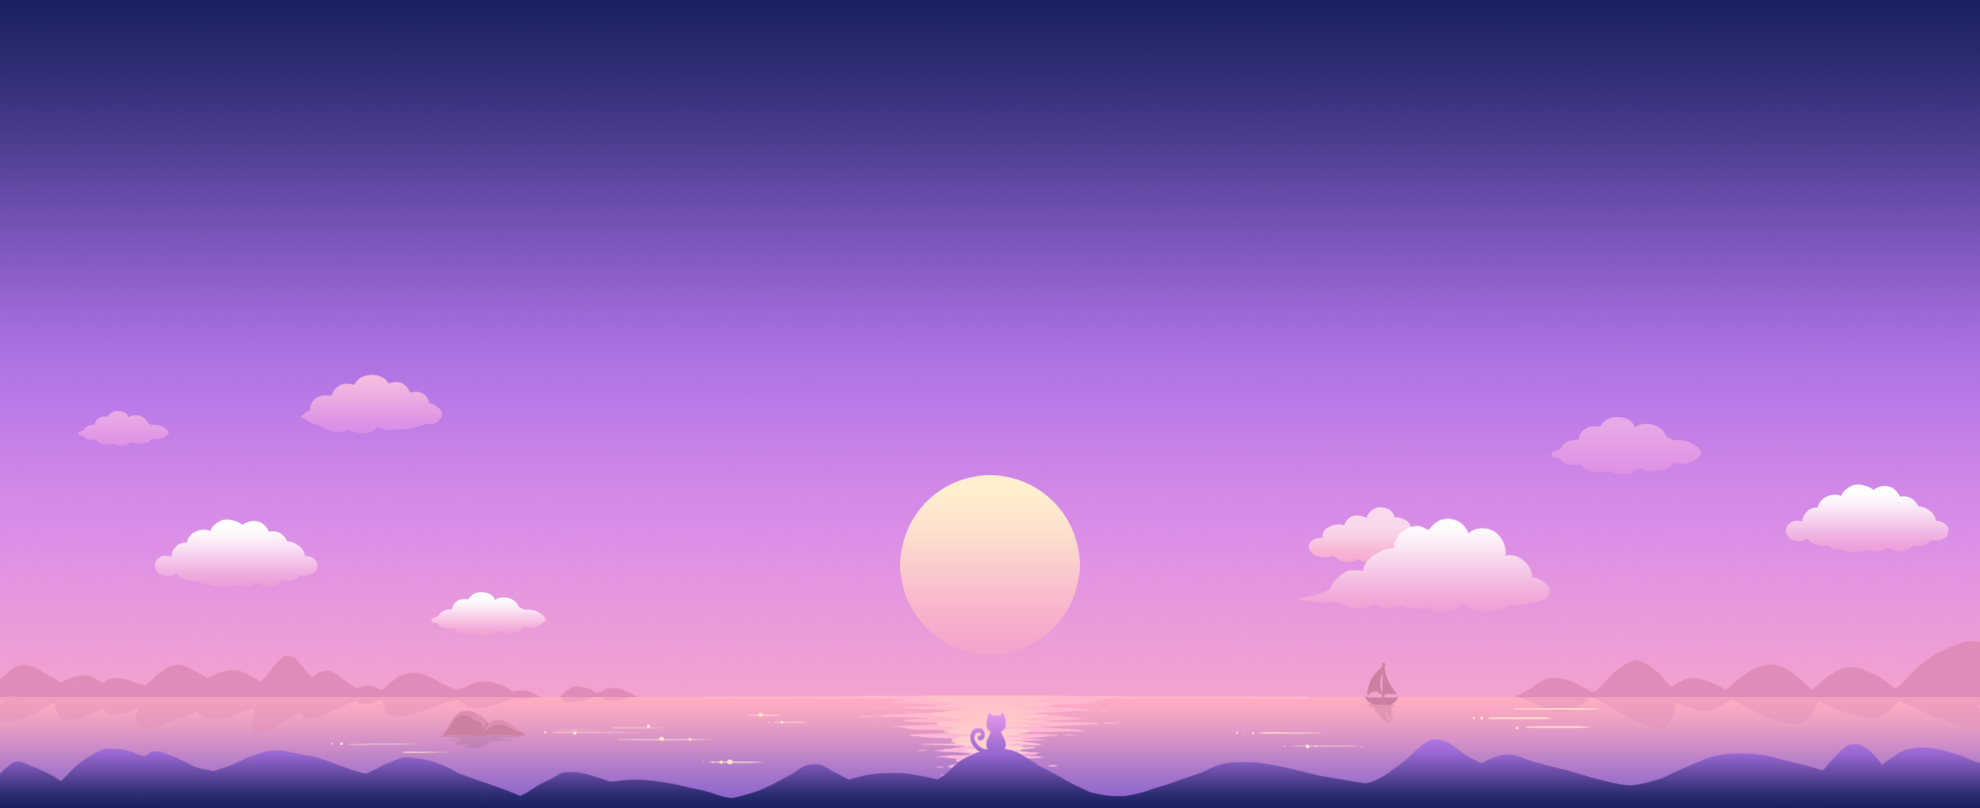
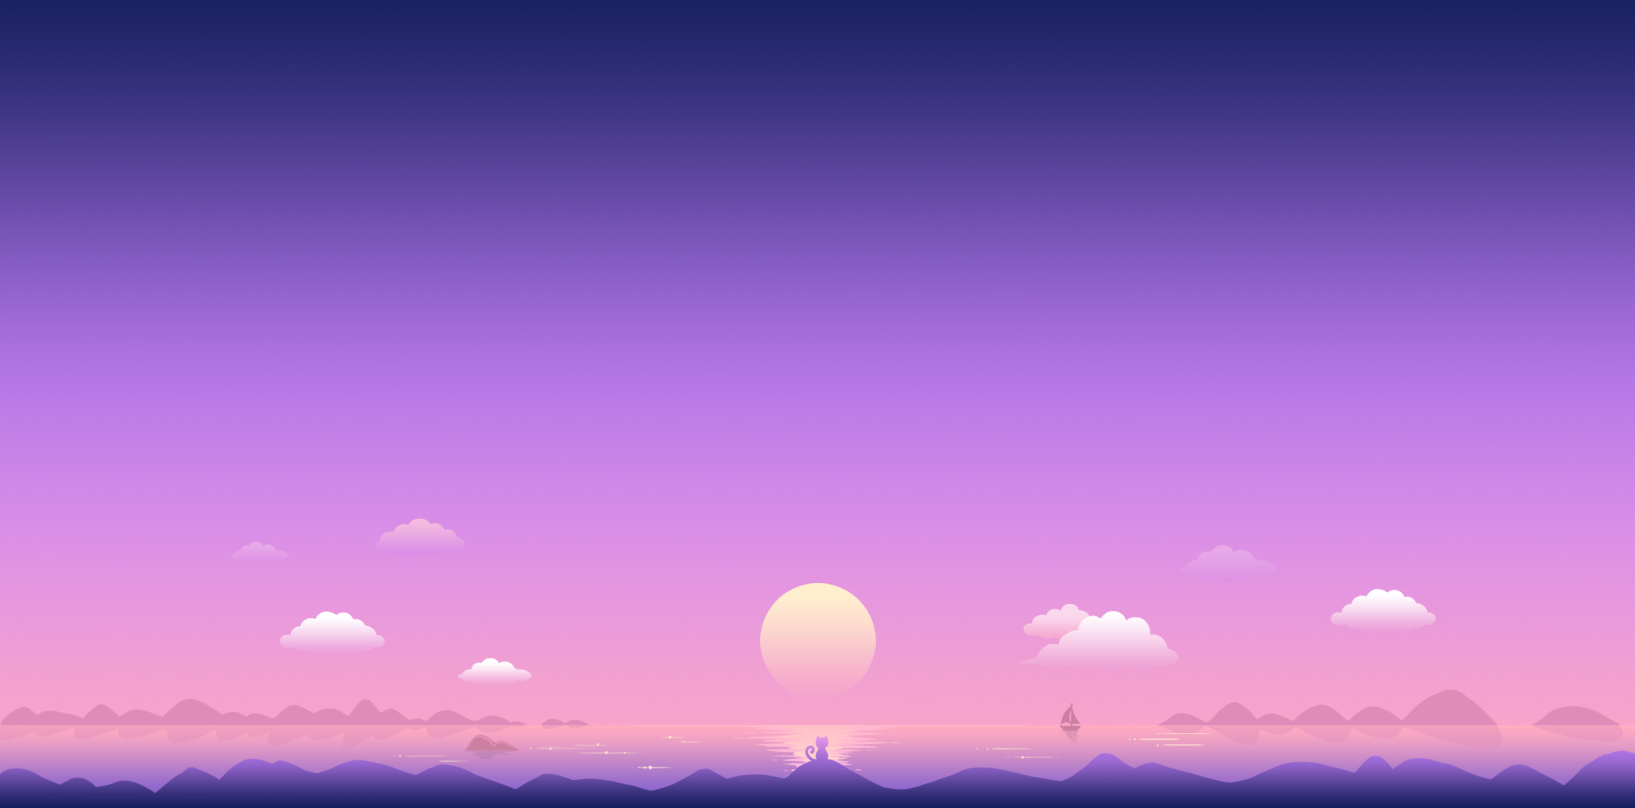
resized doorway and replaced background

diff --git a/assets/css/style.css b/assets/css/style.css
@@ -22,10 +22,10 @@ html {
 	text-align: center;
 }
 nav {
-	max-width: 960px;
+	max-width: 550px;
 	mask-image: linear-gradient(90deg, rgba(255, 255, 255, 0) 0%, #ffffff 25%, #ffffff 75%, rgba(255, 255, 255, 0) 100%);
 	margin: 0 auto;
-	padding: 20px 0; /*adjust how close bar is to logo*/
+	padding: 5px 0; /*adjust how close bar is to logo*/
 }
 
 nav ul {
@@ -60,8 +60,8 @@ nav ul li a:hover {
 	position: relative;
 	top: 0;
 	left: 0;
-	width: 100%;
-	height: 100%;
+	width: 90%;
+	height: 90%;
 }
 .cloud {
 	width: 40%;
@@ -83,8 +83,8 @@ nav ul li a:hover {
 	color: rgba(0, 35, 122, 0.5);
 	font-size: 2vmin;
 	position: absolute;;
-	top: 37vh;
-	left: 40vw;
+	top: 31vh;
+	left: 39vw;
 	z-index: 3;
 }
 
@@ -93,8 +93,8 @@ nav ul li a:hover {
 	color: white;
 	font-size: 6vmin;
 	position: absolute;;
-	top: 35vh;
-	left: 45vw;
+	top: 30vh;
+	left: 43vw;
 	z-index: 3;
 
 }
@@ -102,9 +102,9 @@ nav ul li a:hover {
 .text {
 	font-family: "Roundo","Open Sans";
 	color: white;
-	font-size: 4vmin;
+	font-size: 2vmin;
 	position: absolute;;
-	top: 41vh;
+	top: 36vh;
 	left: 44vw;
 	z-index: 3;
 

diff --git a/index.html b/index.html
@@ -9,7 +9,7 @@
 
 <body>
 
-	<div class="logo"><img src="assets/pics/logo.png" alt="logo" height="5%" width="10%"></div>
+	<div class="logo"><img src="assets/pics/logo.png" alt="logo" height="4%" width="8%"></div>
 
 	<nav>
 		<ul>
